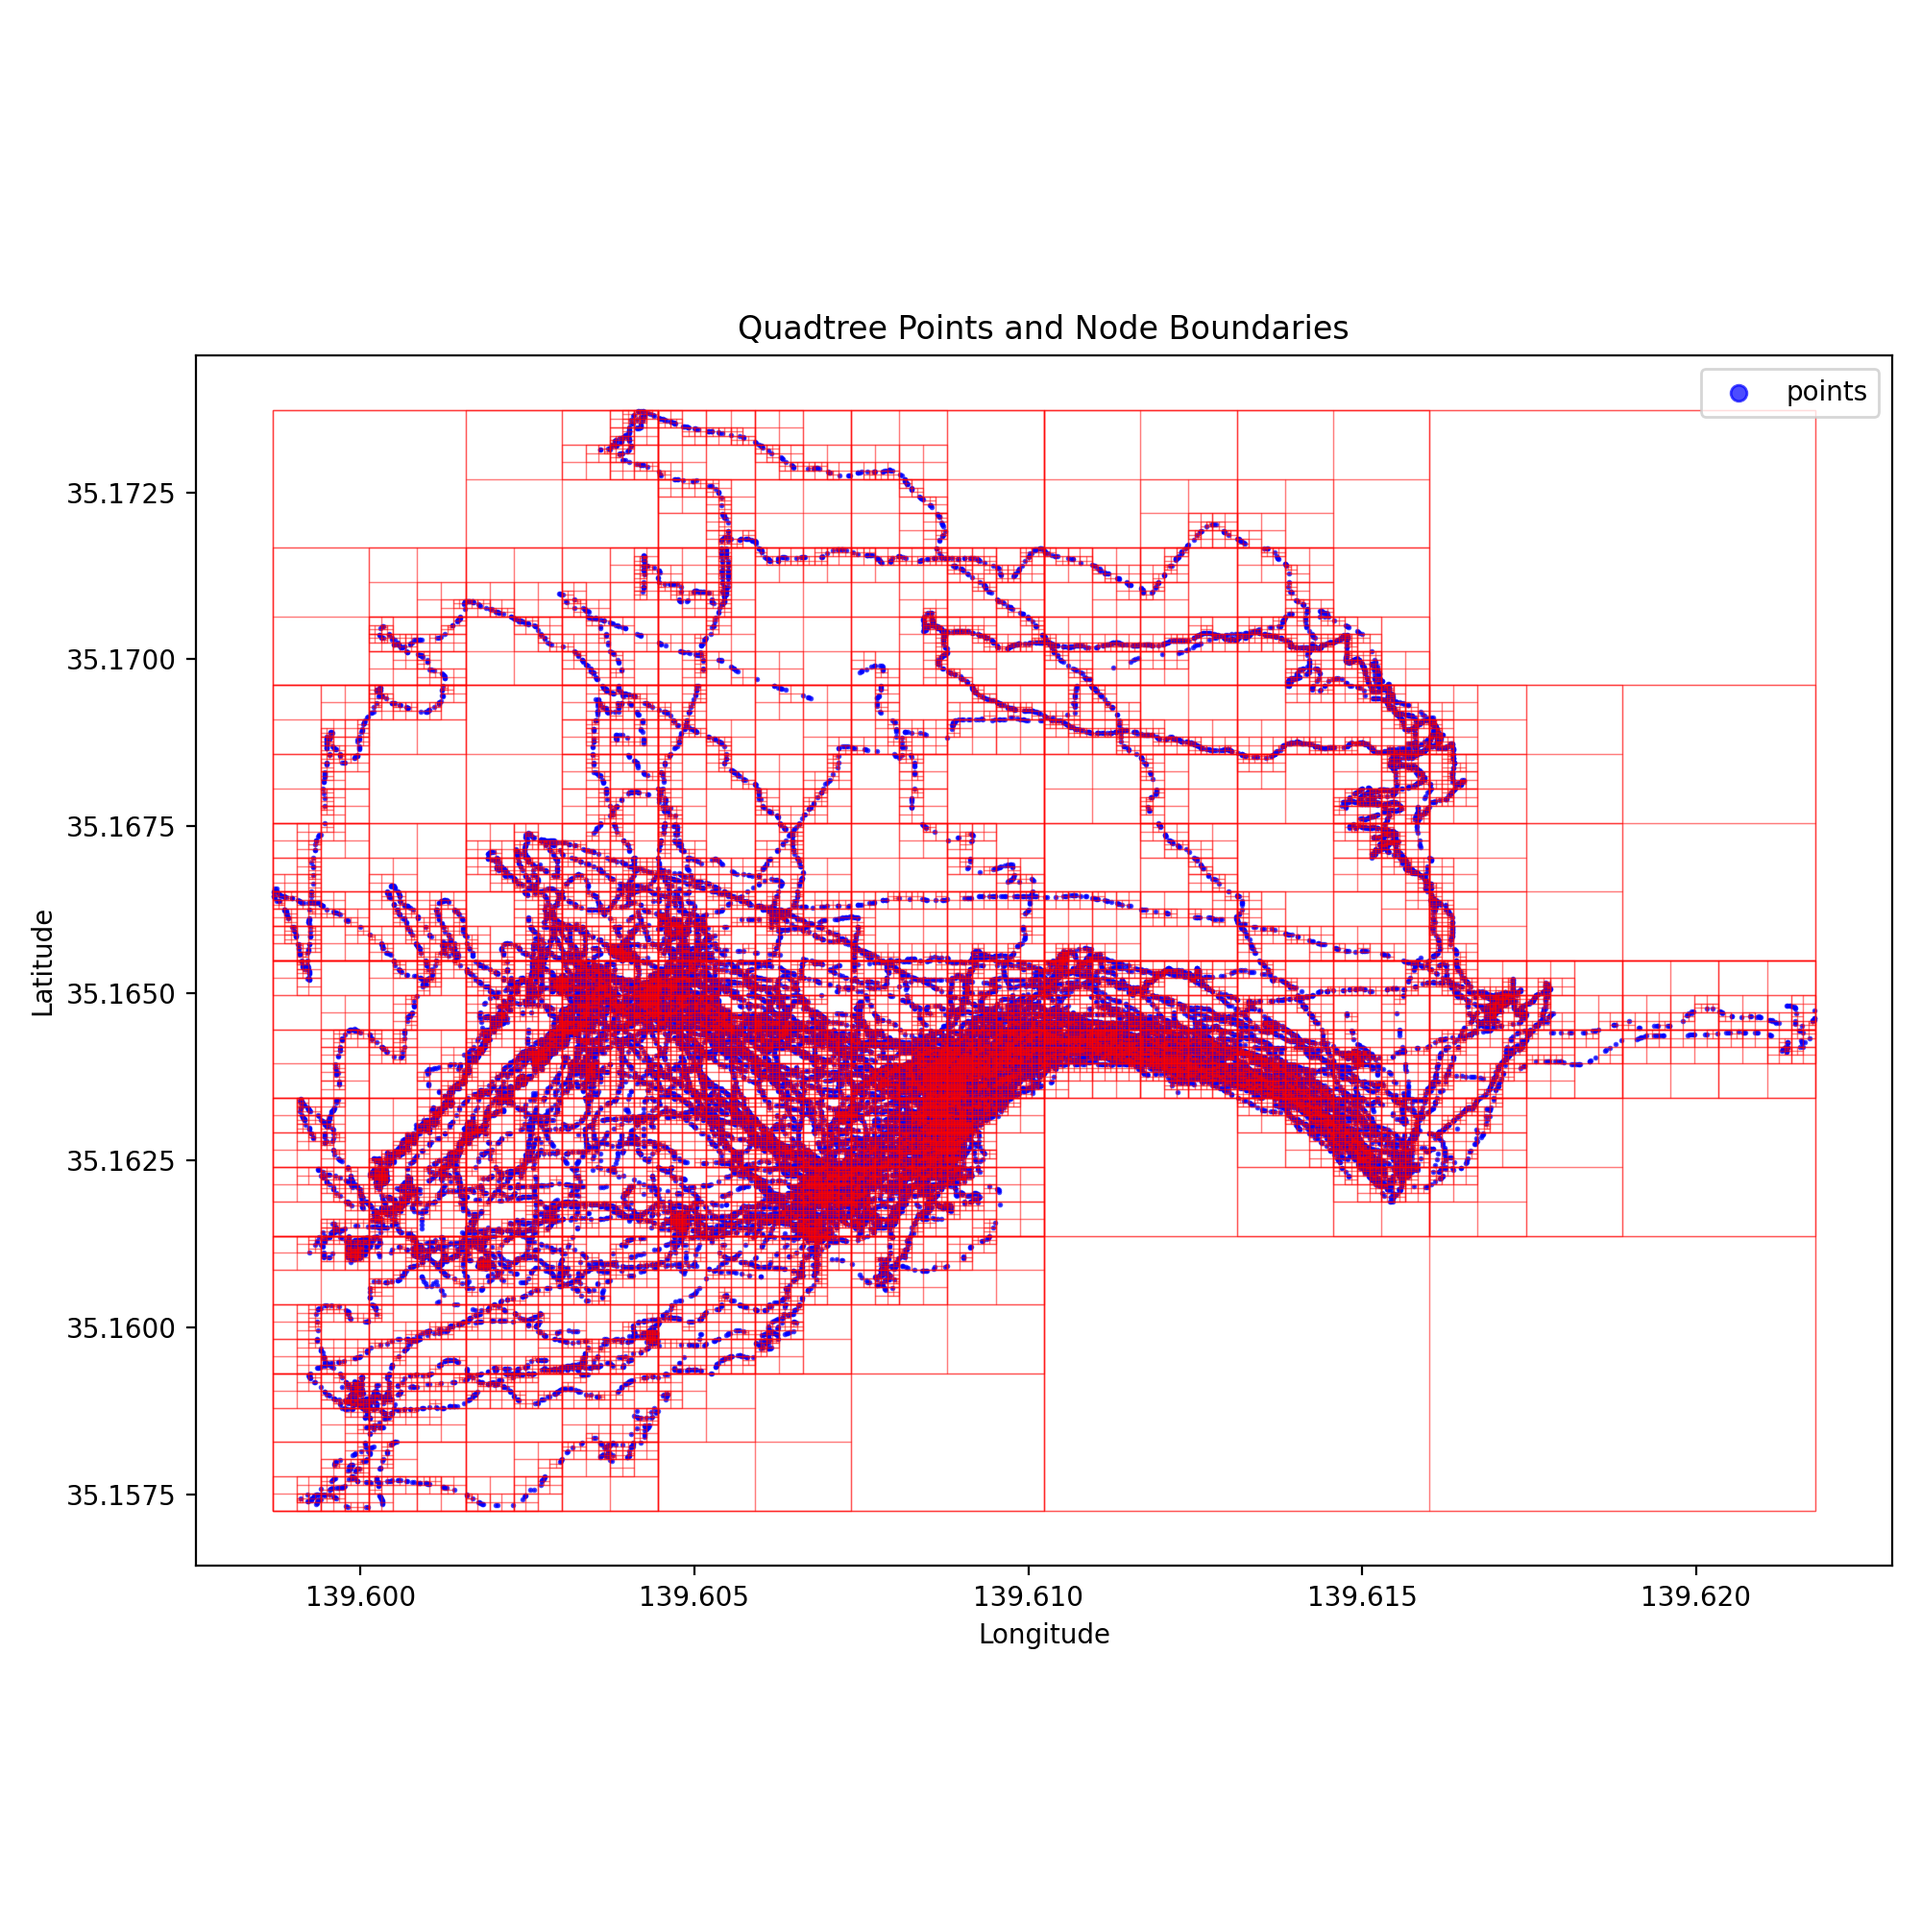
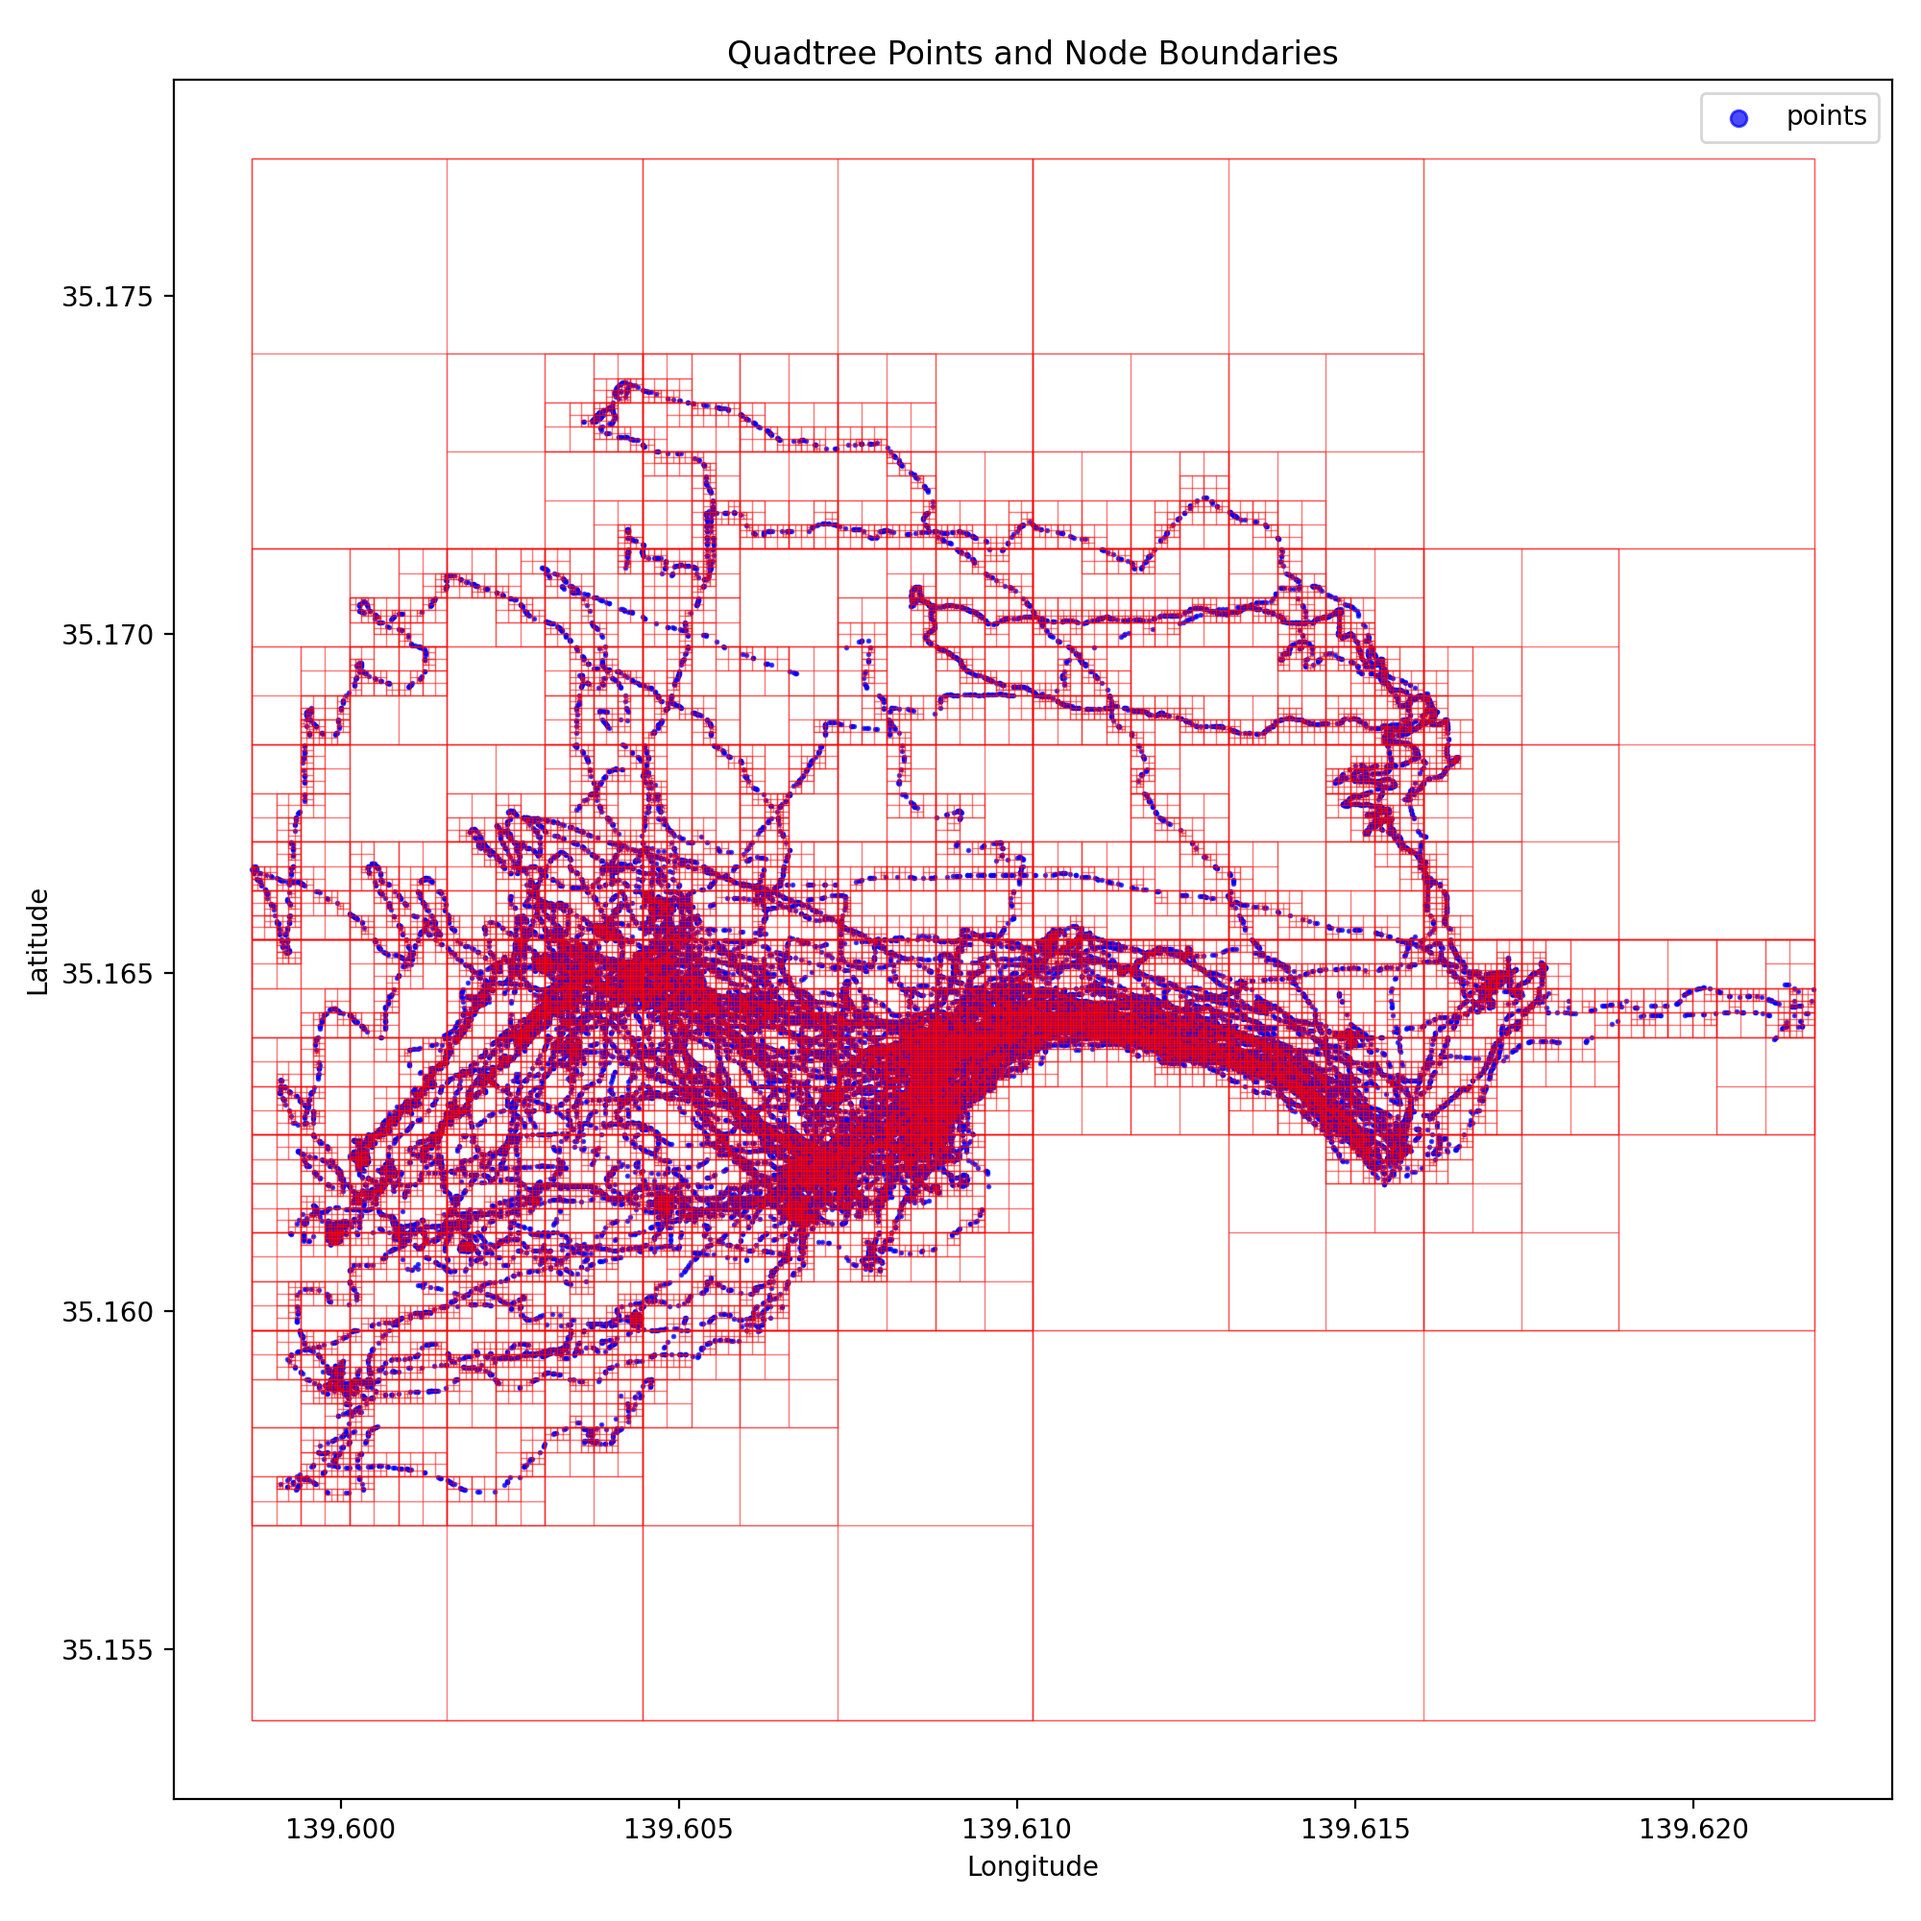
update

diff --git a/bin/qtree.py b/bin/qtree.py
@@ -2,6 +2,16 @@
 
 # 四分木を実装したスクリプトです。
 
+"""
+TODO
+
+- まとめて挿入するメソッドを作る
+
+"""
+
+
+
+
 __author__ = "takamitsu-iida"
 __version__ = "0.1"
 __date__ = "2024/10/10初版, 2025/10/22修正"
@@ -13,6 +23,7 @@ USE_FILE_HANDLER = True
 # 標準ライブラリのインポート
 #
 import logging
+import math
 import os
 import sys
 
@@ -108,13 +119,10 @@ if USE_FILE_HANDLER:
 class QuadtreeNode:
     """ 四分木のノードを表すクラス """
 
-    MAX_POINTS = 4
-    MAX_DEPTH = 10
-
-    def __init__(self, bounds: Tuple[float, float, float, float], depth: int, parent: Optional['QuadtreeNode'] = None):
+    def __init__(self, bounds: Tuple[float, float, float, float], level: int, parent: Optional['QuadtreeNode'] = None):
         # boundsは (lat1, lon1, lat2, lon2) の形式
         self.bounds: Tuple[float, float, float, float] = bounds
-        self.depth: int = depth
+        self.level: int = level
         self.points: List[Dict[str, float]] = []
         self.children: List['QuadtreeNode'] = []
         self.parent: Optional['QuadtreeNode'] = parent
@@ -136,27 +144,33 @@ class QuadtreeNode:
         #
 
         # NW
-        self.children.append(QuadtreeNode((lat1, lon1, mid_lat, mid_lon), self.depth + 1, self))
+        self.children.append(QuadtreeNode((lat1, lon1, mid_lat, mid_lon), self.level + 1, self))
         # NE
-        self.children.append(QuadtreeNode((lat1, mid_lon, mid_lat, lon2), self.depth + 1, self))
+        self.children.append(QuadtreeNode((lat1, mid_lon, mid_lat, lon2), self.level + 1, self))
         # SW
-        self.children.append(QuadtreeNode((mid_lat, lon1, lat2, mid_lon), self.depth + 1, self))
+        self.children.append(QuadtreeNode((mid_lat, lon1, lat2, mid_lon), self.level + 1, self))
         # SE
-        self.children.append(QuadtreeNode((mid_lat, mid_lon, lat2, lon2), self.depth + 1, self))
+        self.children.append(QuadtreeNode((mid_lat, mid_lon, lat2, lon2), self.level + 1, self))
 
 
     def insert(self, point: Dict[str, float]) -> bool:
         """ ノードにポイントを挿入 """
+
+        # 渡されたデータが範囲内かどうかを確認して、範囲外ならFalseを返す
         if not self.contains(point):
             return False
 
+        # リーフノードの場合
         if self.is_leaf():
-            if len(self.points) < QuadtreeNode.MAX_POINTS or self.depth >= QuadtreeNode.MAX_DEPTH:
+            # ポイント数が上限以下、または分割レベルが上限に達している場合は、points配列に追加して終了
+            if len(self.points) < Quadtree.MAX_POINTS or self.level >= Quadtree.LEVEL_LIMIT:
                 self.points.append(point)
                 return True
             else:
+                # それ以外の場合はノードを分割
                 self.subdivide()
 
+        # 子ノードのどれかに挿入
         for child in self.children:
             if child.insert(point):
                 return True
@@ -199,14 +213,14 @@ class QuadtreeNode:
         r_lat1, r_lon1, r_lat2, r_lon2 = range
         return r_lat1 <= point['lat'] < r_lat2 and r_lon1 <= point['lon'] < r_lon2
 
-    def get_nodes_at_depth(self, depth: int) -> List['QuadtreeNode']:
+    def get_nodes_at_level(self, level: int) -> List['QuadtreeNode']:
         """ 指定された深さのノードを取得 """
         nodes = []
-        if self.depth == depth:
+        if self.level == level:
             nodes.append(self)
-        elif self.depth < depth:
+        elif self.level < level:
             for child in self.children:
-                nodes.extend(child.get_nodes_at_depth(depth))
+                nodes.extend(child.get_nodes_at_level(level))
         return nodes
 
 
@@ -225,8 +239,39 @@ class Quadtree:
 
     """ 四分木クラス """
 
+    LEVEL_LIMIT = 1  # 最大分割レベル（初期値、後で設定される）
+    MIN_GRID_WIDTH = 3.0  # 単位メートル
+
+    MAX_POINTS = 4
+
+
     def __init__(self, bounds: Tuple[float, float, float, float]):
         self.root = QuadtreeNode(bounds, 0)
+        # boundsは (lat1, lon1, lat2, lon2) の形式
+
+        # boundsの大きさ（緯度・経度の差）をメートルに変換
+        lat1, lon1, lat2, lon2 = bounds
+
+        # 南西→北西（緯度方向の距離）
+        height_m = distance((lat1, lon1), (lat2, lon1)).meters
+
+        # 南西→南東（経度方向の距離）
+        width_m = distance((lat1, lon1), (lat1, lon2)).meters
+
+        # 最大辺を基準に分割階層を決定
+        square_length = max(height_m, width_m)
+
+        # 2進法で分割していくので、LEVEL_LIMITは log2(max_length / MIN_GRID_WIDTH) の切り上げ
+        if square_length > 0 and self.MIN_GRID_WIDTH > 0:
+            Quadtree.LEVEL_LIMIT = int(math.ceil(math.log2(square_length / self.MIN_GRID_WIDTH)))
+        else:
+            Quadtree.LEVEL_LIMIT = 1  # デフォルト値
+
+
+        logger.info(f"Quadtree initialized with LEVEL_LIMIT={Quadtree.LEVEL_LIMIT} (square_length={square_length:.2f} m)")
+
+
+
 
 
     def insert(self, point: Dict[str, float]) -> bool:
@@ -237,8 +282,8 @@ class Quadtree:
         return self.root.query(range)
 
 
-    def get_nodes_at_depth(self, depth: int) -> List[QuadtreeNode]:
-        return self.root.get_nodes_at_depth(depth)
+    def get_nodes_at_level(self, level: int) -> List[QuadtreeNode]:
+        return self.root.get_nodes_at_level(level)
 
 
     def get_leaf_nodes(self) -> List[QuadtreeNode]:
@@ -250,7 +295,9 @@ class Quadtree:
         - 総ノード数
         - 葉ノード数
         - 最大深さ
-        - 各葉ノードの点数の最大・最小・平均
+        - 最大深さのノード数
+        - 各葉ノードの点数の最大値
+        - 最も深いレベルのノードの一辺の長さ（メートル）
         """
         all_nodes = []
         def collect_nodes(node):
@@ -261,25 +308,31 @@ class Quadtree:
 
         leaf_nodes = self.get_leaf_nodes()
         leaf_points_counts = [len(node.points) for node in leaf_nodes]
-        max_depth = max(node.depth for node in all_nodes)
+        max_level = max(node.level for node in leaf_nodes) if leaf_nodes else 0
 
-        # tabulateで統計情報を表示する
-        table = [
-            ["total_nodes", int(len(all_nodes))],
-            ["leaf_nodes", int(len(leaf_nodes))],
-            ["max_depth", int(max_depth)],
-            ["leaf_points_max", int(max(leaf_points_counts)) if leaf_points_counts else 0],
-            ["leaf_points_min", int(min(leaf_points_counts)) if leaf_points_counts else 0]
-        ]
-        headers = ["", "value"]
-        logger.info(f"Quadtree stats\n{tabulate(table, headers=headers, floatfmt='.0f', numalign='right')}")
+        # 最も深いレベルのノードの一辺の長さをメートルで求める
+        deepest_nodes = [node for node in leaf_nodes if node.level == max_level]
+
+        logger.info(f"Deepest level: {max_level}, Number of deepest nodes: {len(deepest_nodes)}")
+
+        if deepest_nodes:
+            node = deepest_nodes[0]
+            lat1, lon1, lat2, lon2 = node.bounds
+            height_m = distance((lat1, lon1), (lat2, lon1)).meters
+            width_m = distance((lat1, lon1), (lat1, lon2)).meters
+            deepest_node_size = max(height_m, width_m)
+        else:
+            deepest_node_size = 0.0
+
+        logger.info(f"Deepest node size: {deepest_node_size:.3f} m")
 
         return {
             "total_nodes": len(all_nodes),
             "leaf_nodes": len(leaf_nodes),
-            "max_depth": max_depth,
+            "max_level": max_level,
+            "deepest_nodes_count": len(deepest_nodes),
             "leaf_points_max": max(leaf_points_counts) if leaf_points_counts else 0,
-            "leaf_points_min": min(leaf_points_counts) if leaf_points_counts else 0
+            "deepest_node_size_m": deepest_node_size
         }
 
 
@@ -453,7 +506,18 @@ if __name__ == '__main__':
         # min  35.157248  139.598684   1.082000
         # max  35.173733  139.621782  47.539000
 
-        bounds = (data_stats['lat']['min'], data_stats['lon']['min'], data_stats['lat']['max'], data_stats['lon']['max'])
+        # 中央座標を求める
+        mid_lat = (data_stats['lat']['min'] + data_stats['lat']['max']) / 2
+        mid_lon = (data_stats['lon']['min'] + data_stats['lon']['max']) / 2
+
+        # 四分木の境界を正方形で設定
+        square_size = max(
+            mid_lat - data_stats['lat']['min'],
+            data_stats['lat']['max'] - mid_lat,
+            mid_lon - data_stats['lon']['min'],
+            data_stats['lon']['max'] - mid_lon
+        )
+        bounds = (mid_lat - square_size, mid_lon - square_size, mid_lat + square_size, mid_lon + square_size)
         quadtree = Quadtree(bounds)
 
         for row in data:
@@ -461,9 +525,26 @@ if __name__ == '__main__':
             point = {'lat': lat, 'lon': lon, 'depth': depth}
             quadtree.insert(point)
 
-        quadtree.stats()
+        # 四分木の統計情報を取得
+        stats = quadtree.stats()
+
+        # tabulateで四分木の統計情報を表示する
+        table = [
+            ["total_nodes", stats.get("total_nodes", 0)],
+            ["leaf_nodes", stats.get("leaf_nodes", 0)],
+            ["max_level", stats.get("max_level", 0)],
+            ["deepest_nodes_count", stats.get("deepest_nodes_count", 0)],
+            ["leaf_points_max", stats.get("leaf_points_max", 0)],
+            ["deepest_node_size(m)", f"{stats.get('deepest_node_size_m', 0):.3f}"]
+        ]
+        headers = ["", "value"]
+        logger.info(f"Quadtree stats\n{tabulate(table, headers=headers, numalign='right')}")
+
+        logger.info(stats.get("deepest_node_size_m"))
+
+        # 四分木の可視化画像を保存
         output_image_path = log_dir.joinpath("quadtree_visualization.png")
-        save_quadtree_image(quadtree, output_image_path)
+        # save_quadtree_image(quadtree, output_image_path)
 
     #
     # 実行

diff --git a/tests/test_qtree.py b/tests/test_qtree.py
@@ -121,8 +121,8 @@ def test_get_nodes_at_depth():
     for point in test_data:
         quadtree.insert(point)
 
-    nodes_at_depth_1 = quadtree.get_nodes_at_depth(1)
+    nodes_at_depth_1 = quadtree.get_nodes_at_level(1)
     assert len(nodes_at_depth_1) == 4
 
-    nodes_at_depth_2 = quadtree.get_nodes_at_depth(2)
+    nodes_at_depth_2 = quadtree.get_nodes_at_level(2)
     assert len(nodes_at_depth_2) == 16
